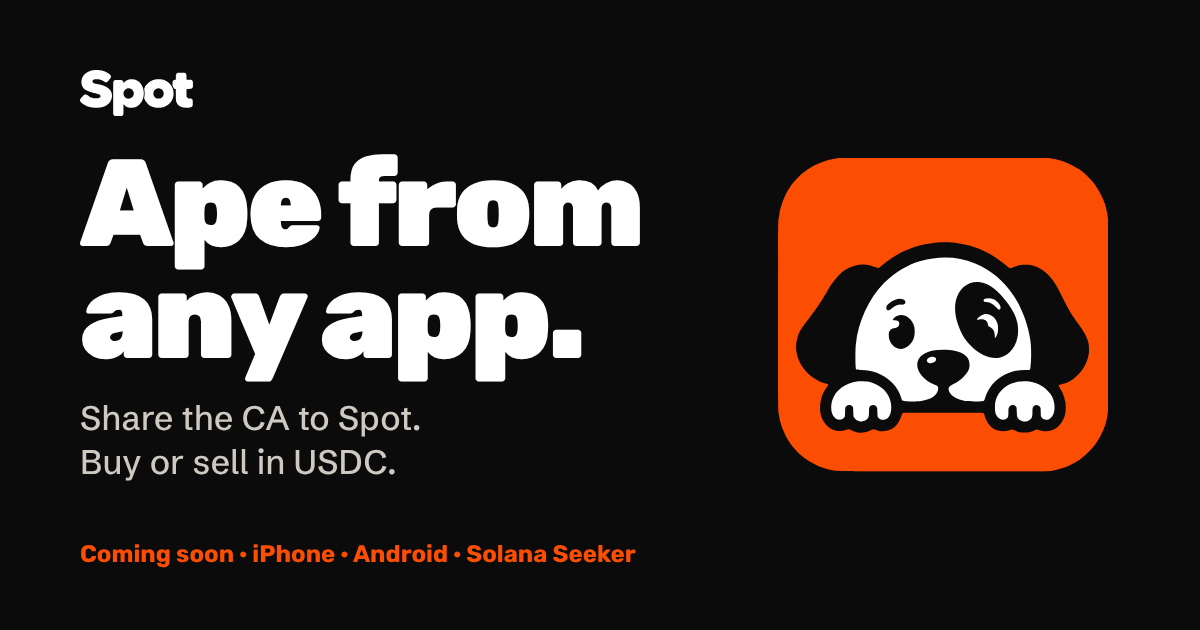
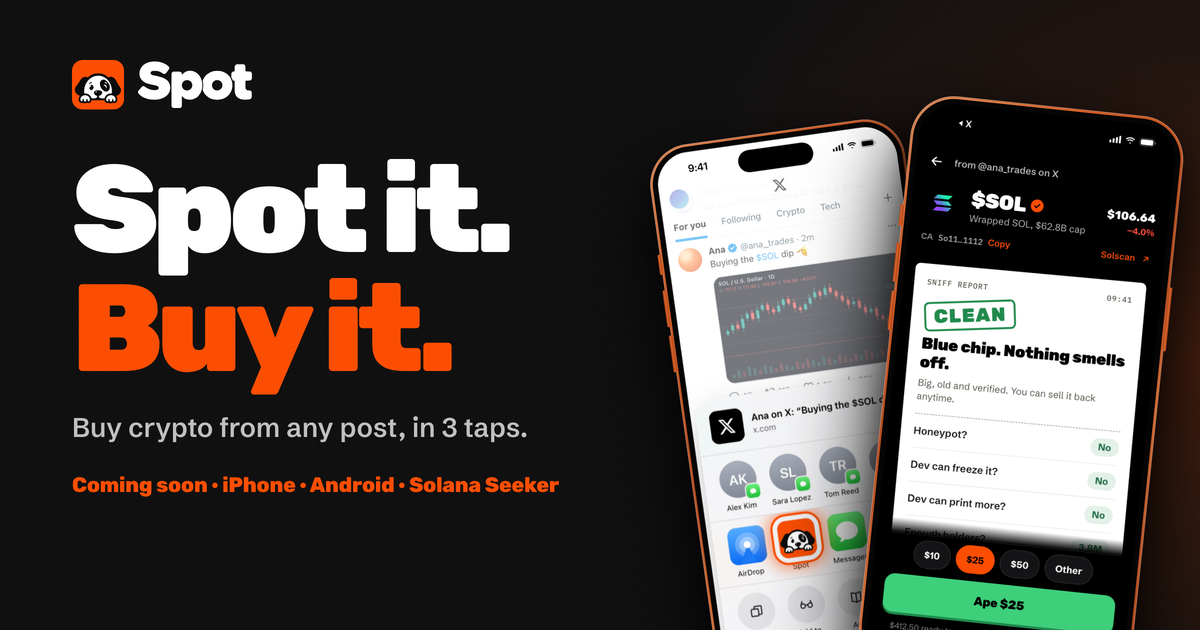
Landing: "Spot it. Buy it." on the hero, and the link card to match
The hero's line is the X header's now: two sentences on two lines, the
second in the brand's orange (6:1 on the black). The lede, the form and
the phone demo are unchanged.

The link card (opengraph-image, twitter-image) is the launch banner's:
the line, "Buy crypto from any post, in 3 taps.", the platforms, and two
phones, a post on X shared to Spot and Spot 0.5.1's sniff report for
$SOL stamped CLEAN with Ape $25. The bottom left stays clear, where X
lays the page's title over a card. The alt text says the same.

diff --git a/src/app/page.tsx b/src/app/page.tsx
@@ -103,7 +103,11 @@ export default async function Home() {
       <main>
         <section className={`${styles.wrap} ${styles.hero}`}>
           <div>
-            <h1 className={styles.h1}>Ape from any&nbsp;app.</h1>
+            {/* The line on the X header and the link card: each sentence keeps its line, the second in orange. */}
+            <h1 className={styles.h1}>
+              <span className={styles.line}>Spot it.</span>{" "}
+              <span className={`${styles.line} ${styles.accent}`}>Buy&nbsp;it.</span>
+            </h1>
             <p className={styles.lede}>
               <span className={styles.line}>From your feed to your bag in three&nbsp;taps.</span>{" "}
               <span className={styles.line}>Spot sniffs out the rugs on the&nbsp;way.</span>

diff --git a/src/app/page.module.css b/src/app/page.module.css
@@ -55,6 +55,11 @@
   display: block;
 }
 
+/* The second half of the headline, in the brand's orange (6:1 on the black). */
+.accent {
+  color: var(--orange);
+}
+
 @media (min-width: 960px) {
   .h1 {
     font-size: clamp(80px, 7.6vw, 118px);
